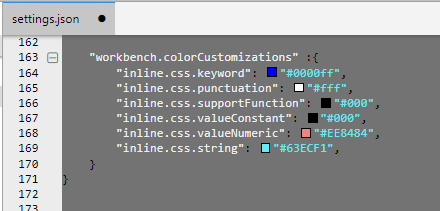
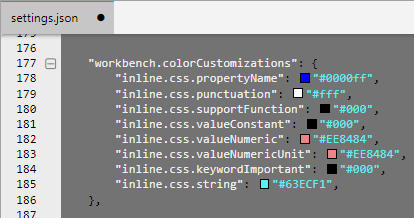
update

diff --git a/extension.js b/extension.js
@@ -13,16 +13,18 @@ function activate(context) {
 	app.setDocumentCacheEnabled();
 
 	//CREATE DECORATIONS
-	app.editorCreateDecoration('keywords', { color: new vscode.ThemeColor('inline.css.keyword') });
+	app.editorCreateDecoration('propertyName', { color: new vscode.ThemeColor('inline.css.propertyName') });
 	app.editorCreateDecoration('punctuation', { color: new vscode.ThemeColor('inline.css.punctuation') });
 	app.editorCreateDecoration('valueNumeric', { color: new vscode.ThemeColor('inline.css.valueNumeric') });
+	app.editorCreateDecoration('valueNumericUnit', { color: new vscode.ThemeColor('inline.css.valueNumericUnit') });
 	app.editorCreateDecoration('valueConstant', { color: new vscode.ThemeColor('inline.css.valueConstant') });
 	app.editorCreateDecoration('supportFunction', { color: new vscode.ThemeColor('inline.css.supportFunction') });
+	app.editorCreateDecoration('keywordImportant', { color: new vscode.ThemeColor('inline.css.keywordImportant') });
 	app.editorCreateDecoration('string', { color: new vscode.ThemeColor('inline.css.string') });
 
 	//ADD RANGES
 	app.addDecorationLineRanges(function (lines, line_x, ranges) {
-		
+
 		if (lines[line_x]['syntax'] !== 'html' || isset(lines[line_x]['html']['elements']) == false) {
 			return;
 		}
@@ -33,7 +35,7 @@ function activate(context) {
 			let style = elements[element_id]['attributes']['style'];
 			if (style) {
 				for (var index in style) {
-					
+
 					let line = style[index]['line'];
 					let text = lines[line]['text'];
 
@@ -45,12 +47,15 @@ function activate(context) {
 					}
 
 					let x = start;
+					let propertyNameStart = true;
 					let numericStart = null;
+					let numericUnitStart = null;
 					let constStart = null;
 					let stringStart = null;
+					let keyWordStart = null;
+					let keyWordImportantStart = null;
 					let phpOpen = false;
 					let inMatch = false;
-					let keyWordStart = true;
 					while (x <= end) {
 
 						if (text.indexOf(/<\?/, x) === x) {
@@ -62,13 +67,13 @@ function activate(context) {
 						if (phpOpen == false) {
 							let valueEnd = false;
 							let supportFunction = false;
-							let keyword = false;
+							let propertyName = false;
 							if (text.indexOf(/:| :|  :/, x) == x) {
 								if (constStart !== null) {
-									ranges['keywords'].push(new vscode.Range(line, constStart, line, x));
+									ranges['propertyName'].push(new vscode.Range(line, constStart, line, x));
 									inMatch = false;
 									constStart = null;
-									keyWordStart = false;
+									propertyNameStart = false;
 								}
 								ranges['punctuation'].push(new vscode.Range(line, x, line, x + 1));
 							} else if (text.indexOf(/[),=]/, x) == x) {
@@ -81,16 +86,16 @@ function activate(context) {
 							} else if (text.indexOf(/[;]/, x) == x) {
 								ranges['punctuation'].push(new vscode.Range(line, x, line, x + 1));
 								valueEnd = true;
-								keyWordStart = true;
+								propertyNameStart = true;
 							} else if (text.indexOf(/[ ]/, x) == x) {
 								valueEnd = true;
-								if (keyWordStart) {
-									keyword = true;
+								if (propertyNameStart) {
+									propertyName = true;
 								}
 							} else if (x == end) {
 								valueEnd = true;
-								if (keyWordStart) {
-									keyword = true;
+								if (propertyNameStart) {
+									propertyName = true;
 								}
 							} else if (inMatch == false && text.indexOf(/['"]/, x) == x) {
 								if (stringStart === null) {
@@ -107,6 +112,11 @@ function activate(context) {
 									constStart = x;
 									inMatch = true
 								}
+							} else if (inMatch == false && text.indexOf(/!/, x) == x) {
+								if (keyWordStart === null) {
+									keyWordStart = x;
+									inMatch = true
+								}
 							} else if (inMatch == false && text.indexOf(/[-]/, x) == x && text.indexOf(/[0-9]/, x + 1) == x + 1) {
 								if (numericStart === null) {
 									numericStart = x;
@@ -119,8 +129,22 @@ function activate(context) {
 								}
 							}
 
+							if (numericStart !== null && text.indexOf(/[^0-9\(),=; ]/, x) == x) {
+								ranges['valueNumeric'].push(new vscode.Range(line, numericStart, line, x));
+								numericStart = null;
+								numericUnitStart = x;
+							}
+
 							if (valueEnd) {
 								inMatch = false;
+								if(keyWordStart){
+									if(text.substring(keyWordStart,x)=="!important"){
+										ranges['keywordImportant'].push(new vscode.Range(line, keyWordStart, line, x + (x == end && isset(text[x + 1]) == false ? 1 : 0)));
+									} else {
+										ranges['valueConstant'].push(new vscode.Range(line, keyWordStart, line, x + (x == end && isset(text[x + 1]) == false ? 1 : 0)));
+									}
+									keyWordStart = null;
+								}
 								if (stringStart) {
 									ranges['string'].push(new vscode.Range(line, stringStart, line, x));
 									stringStart = null;
@@ -129,12 +153,20 @@ function activate(context) {
 									ranges['valueNumeric'].push(new vscode.Range(line, numericStart, line, x + (x == end && isset(text[x + 1]) == false ? 1 : 0)));
 									numericStart = null;
 								}
+								if(numericUnitStart!==null){
+									ranges['valueNumericUnit'].push(new vscode.Range(line, numericUnitStart, line, x + (x == end && isset(text[x + 1]) == false ? 1 : 0)));
+									numericUnitStart = null;
+								}
+								if(keyWordImportantStart!==null){
+									ranges['keywordImportant'].push(new vscode.Range(line, keyWordImportantStart, line, x + (x == end && isset(text[x + 1]) == false ? 1 : 0)));
+									keyWordImportantStart = null;
+								}
 								if (constStart !== null) {
 									if (supportFunction) {
 										supportFunction = false;
 										ranges['supportFunction'].push(new vscode.Range(line, constStart, line, x + (x == end && isset(text[x + 1]) == false ? 1 : 0)));
-									} else if (keyword) {
-										ranges['keywords'].push(new vscode.Range(line, constStart, line, x + (x == end && isset(text[x + 1]) == false ? 1 : 0)));
+									} else if (propertyName) {
+										ranges['propertyName'].push(new vscode.Range(line, constStart, line, x + (x == end && isset(text[x + 1]) == false ? 1 : 0)));
 									} else {
 										ranges['valueConstant'].push(new vscode.Range(line, constStart, line, x + (x == end && isset(text[x + 1]) == false ? 1 : 0)));
 									}
@@ -149,7 +181,7 @@ function activate(context) {
 
 			}
 		}
-		
+
 	});
 
 	//START

diff --git a/README.md b/README.md
@@ -37,12 +37,14 @@ Then click on the text you want to see its token information. Locate the "foregr
 After getting your colors open your settings.json file and add them to the "workbench.colorCustomizations" object.
 
 ```
-"workbench.colorCustomizations" : {
-	"inline.css.keyword": "#0000ff",
-	"inline.css.punctuation": "#fff",
-	"inline.css.supportFunction": "#000",
-	"inline.css.valueConstant": "#000",
-	"inline.css.valueNumeric": "#EE8484",
-	"inline.css.string": "#63ECF1",
-}
+"workbench.colorCustomizations": {
+		"inline.css.propertyName": "#0000ff",
+		"inline.css.punctuation": "#fff",
+		"inline.css.supportFunction": "#000",
+		"inline.css.valueConstant": "#000",
+		"inline.css.valueNumeric": "#EE8484",
+		"inline.css.valueNumericUnit": "#EE8484",
+		"inline.css.keywordImportant": "#000",
+		"inline.css.string": "#63ECF1",
+	},
 ```
